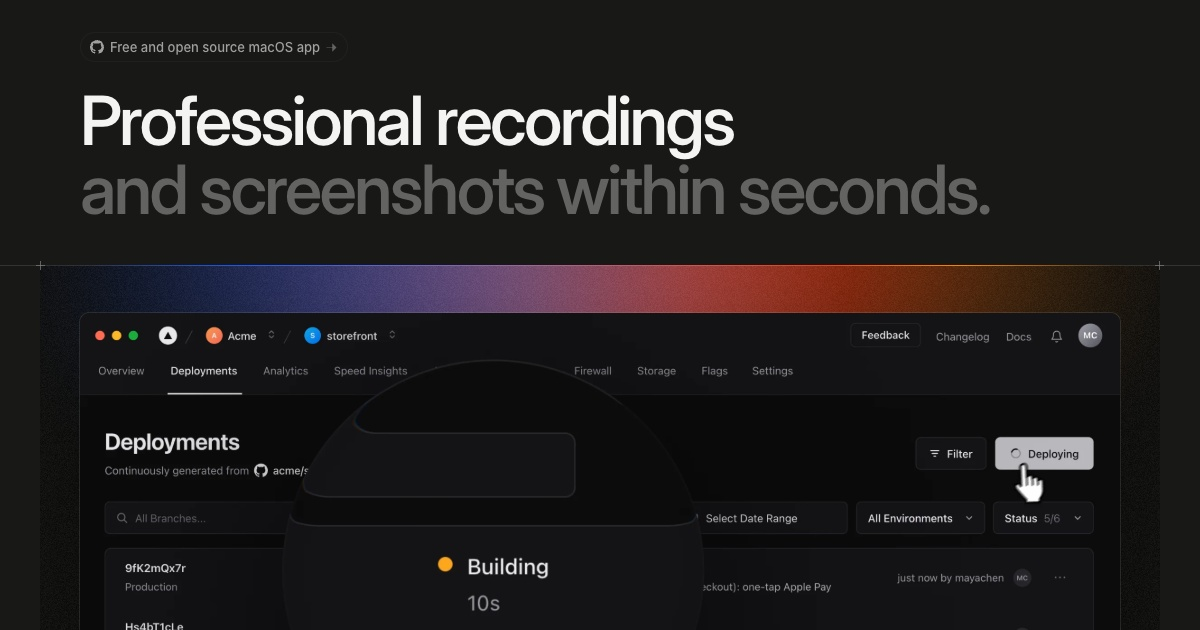
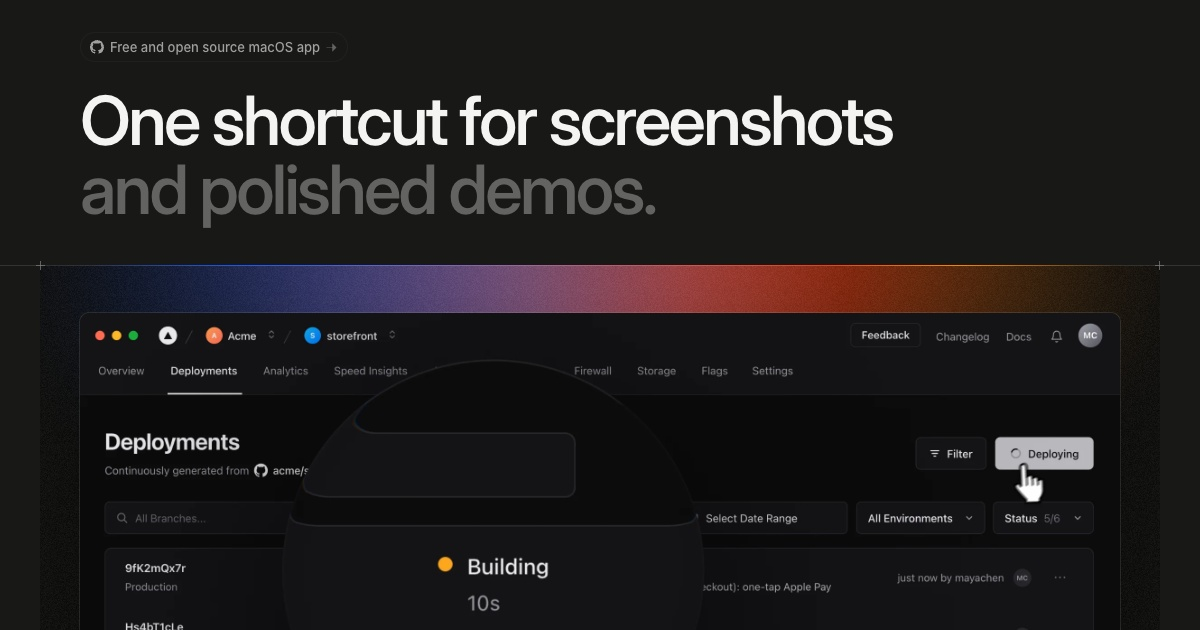
feat(app-shell): add a Help menu and star links, lead with one shortcut

Changed region(s): [[0.0617, 0.1508, 0.8325, 0.3619]]

diff --git a/electron/shell/tray.ts b/electron/shell/tray.ts
@@ -1,12 +1,12 @@
 // Menu bar icon. A click starts a capture (the area picker: record it or copy a screenshot); while
 // recording a click finishes. Right-click opens the menu: new recording, recent captures (each
-// reopens its result card), recent projects, open, import, settings, account, updates, quit; while
-// recording finish, pause, draw, delete. Dropped .grip bundles open; dropped videos import as new
-// projects. While exports run the icon is a progress ring and the menu leads with them, Cancel
+// reopens its result card), recent projects, open, import, settings, account, updates, the GitHub
+// star, quit; while recording finish, pause, draw, delete. Dropped .grip bundles open; dropped
+// videos import as new projects. While exports run the icon is a progress ring and the menu leads with them, Cancel
 // included. A blue dot marks an update waiting for a restart, and an outlined one a check or
 // download under way. The update card hangs under the icon (electron/shell/update.ts); a click on
 // the icon closes it, as it closes a menu.
-import { app, Menu, nativeImage, Tray, type MenuItemConstructorOptions } from 'electron'
+import { app, Menu, nativeImage, shell, Tray, type MenuItemConstructorOptions } from 'electron'
 import { join } from 'node:path'
 import { native } from '../native.ts'
 import { exportListeners, exportMenuItems, exportStatus } from '../export.ts'
@@ -15,6 +15,7 @@ import { accountMenuItems } from '../account.ts'
 import { recentProjects } from '../projects.ts'
 import { closeCard, readyVersion, updateActivity, updateListeners, updateMenuItems } from './update.ts'
 import { settings } from './settings.ts'
+import { REPO } from './menu.ts'
 import { captureRows, projectRows } from './captures.ts'
 import { cancelRecording, command, importDialog, openFilesOrAlert, openOnboarding, openProject, openProjectDialog, recordingStatus, reopenCapture, SHORTCUTS, showPicker, statusListeners, toggleDrawing } from './recorder.ts'
 
@@ -57,6 +58,7 @@ async function template(): Promise<MenuItemConstructorOptions[]> {
     { label: 'Settings…', click: () => openOnboarding('page=settings') },
     ...accountMenuItems(),
     ...updateMenuItems(),
+    { label: 'Star Grip on GitHub', click: () => void shell.openExternal(REPO) },
     { type: 'separator' },
     { label: 'Quit Grip', accelerator: 'Command+Q', registerAccelerator: false, click: () => app.quit() },
   ]

diff --git a/electron/shell/menu.ts b/electron/shell/menu.ts
@@ -7,6 +7,8 @@ import { importDialog, openOnboarding, openProjectDialog, showPicker } from './r
 import { settings } from './settings.ts'
 import { updateMenuItems } from './update.ts'
 
+export const REPO = 'https://github.com/bestboyhq/grip'
+
 /** The bundle shown by the focused editor window. */
 function focusedProject(): string | null {
   const win = BrowserWindow.getFocusedWindow()
@@ -88,6 +90,13 @@ export function setAppMenu() {
     },
     { label: 'View', submenu: [{ role: 'togglefullscreen' }, ...(app.isPackaged ? [] : [{ type: 'separator' as const }, { role: 'reload' as const }, { role: 'toggleDevTools' as const }])] },
     { role: 'windowMenu' },
+    {
+      role: 'help',
+      submenu: [
+        { label: 'Grip Guide', click: () => void shell.openExternal(`${REPO}/blob/main/docs/guide.md`) },
+        { label: 'Star Grip on GitHub', click: () => void shell.openExternal(REPO) },
+      ],
+    },
   ]
   Menu.setApplicationMenu(Menu.buildFromTemplate(template))
 }

diff --git a/site/src/routes/(site)/+page.svelte b/site/src/routes/(site)/+page.svelte
@@ -227,7 +227,7 @@
 	];
 </script>
 
-<Head title="Grip: free screen recorder for Mac with auto-zoom and captions" description={SITE_DESCRIPTION} path="" />
+<Head title="Grip: free screen recorder and screenshot tool for Mac" description={SITE_DESCRIPTION} path="" />
 
 <!-- The hero's still in the system's theme; a theme picked on the page against it loads its own when the page shows. -->
 <svelte:head>
@@ -244,8 +244,8 @@
 
 <Hero>
 	<p class="lede">
-		Grip zooms where you click, smooths your cursor, and captions your voice. One shortcut records a
-		demo or takes a screenshot.
+		Grip can take over ⇧⌘5, and it opens in 8 ms. Mark up a screenshot and paste it, or record a demo
+		that zooms where you click, smooths your cursor, and captions your voice.
 	</p>
 	<div class="actions">
 		<a class="button primary" href={DOWNLOAD_URL}>

diff --git a/site/src/lib/links.ts b/site/src/lib/links.ts
@@ -2,7 +2,7 @@ import { asset, resolve } from '$app/paths';
 
 export const SITE_URL = 'https://bestboy.dev/grip';
 export const SITE_DESCRIPTION =
-	'Grip is a free, open source screen recorder for the Mac that makes polished demos on the first take. It zooms where you click, smooths your cursor, and captions your voice, with a screenshot tool built in.';
+	'Grip is a free, open source screen recorder and screenshot tool for the Mac. One shortcut marks up a screenshot or records a polished demo that zooms where you click, smooths your cursor, and captions your voice.';
 
 // The DMG's name carries its version, so bestboy.dev looks up the latest release's and redirects to it.
 export const DOWNLOAD_URL = 'https://bestboy.dev/download/grip';

diff --git a/site/src/lib/Head.svelte b/site/src/lib/Head.svelte
@@ -29,7 +29,7 @@
 	<meta property="og:image:height" content="630" />
 	<meta
 		property="og:image:alt"
-		content="Grip's page: Polished screen recordings on the first take. Below, a deployments dashboard Grip polished, its glass loupe magnifying a new build's timer."
+		content="Grip's page: One shortcut for screenshots and polished demos. Below, a deployments dashboard Grip polished, its glass loupe magnifying a new build's timer."
 	/>
 	<meta name="twitter:card" content="summary_large_image" />
 </svelte:head>

diff --git a/site/src/lib/Footer.svelte b/site/src/lib/Footer.svelte
@@ -16,7 +16,7 @@
 					<img class="app-icon" src={asset('icons/grip.webp')} width="28" height="28" alt="" />
 					Grip
 				</a>
-				<p>Polished screen recordings and screenshots on the first take.</p>
+				<p>One shortcut for screenshots and polished demos.</p>
 			</div>
 			{#each SITEMAP as column (column.label)}
 				<nav aria-label={column.label}>

diff --git a/site/src/lib/Hero.svelte b/site/src/lib/Hero.svelte
@@ -27,8 +27,8 @@
 			<Arrow class="ahead" />
 		</a>
 		<h1 id="hero-title">
-			<span>Polished screen recordings</span>
-			<span class="quiet">on the first take.</span>
+			<span>One shortcut for screenshots</span>
+			<span class="quiet">and polished demos.</span>
 		</h1>
 		{@render children?.()}
 	</div>

diff --git a/README.md b/README.md
@@ -5,8 +5,8 @@
 <h1 align="center">Grip</h1>
 
 <p align="center">
-  <b>The free screen recorder for Mac that makes polished demos on the first take.</b><br>
-  Grip zooms where you click, smooths your cursor, and captions your voice. A screenshot tool is built in.<br>
+  <b>One shortcut for screenshots and polished demos.</b><br>
+  Grip is the free screen recorder for Mac that zooms where you click, smooths your cursor, and captions your voice.<br>
   Open source. No subscription, no account, no watermark. Free for commercial use.
 </p>
 
